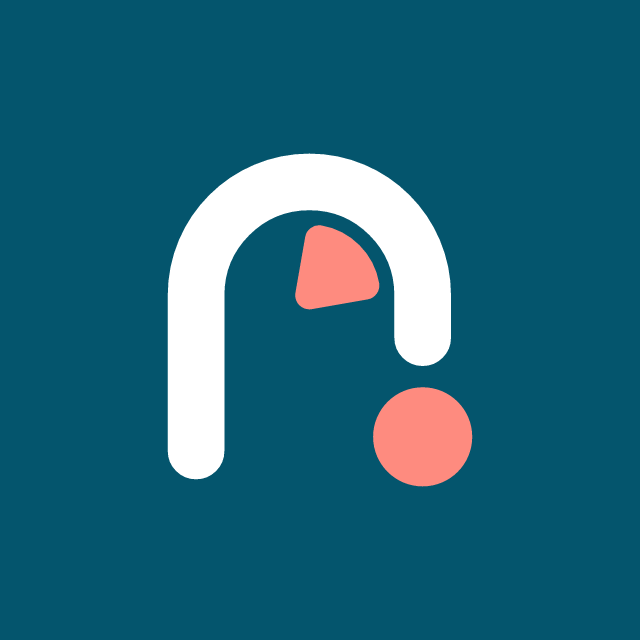
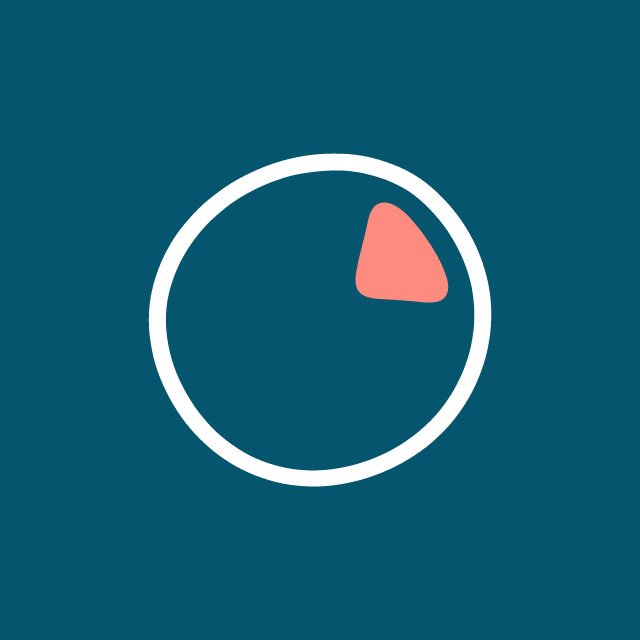
Piece: use the approved ring-and-slice mark
Replace the slice-in-the-arch cue with the drawing the owner approved: a
hand-drawn ring with one slice in the upper right, traced from the source
image. Piece is the one product mark that replaces the arch instead of
adding to it; the ring takes the route color, the slice the accent, so all
theme variants still come from tokens.

Claude-Session: https://claude.ai/code/session_017D9u9tzuCGMyrrq3fSv3S7

Changed region(s): [[0.2188, 0.2188, 0.7812, 0.7812]]

diff --git a/scripts/lib/products.ts b/scripts/lib/products.ts
@@ -27,23 +27,17 @@ function ringing(c: MarkColors): string {
   );
 }
 
-/**
- * A pie slice inside the arch, apex on its centre, opening to the upper right: one piece of
- * the shared whole. Filled, with a round-joined outline so the corners match the strokes.
- */
-function slice(c: MarkColors): string {
-  const r = 4;
-  const [x1, y1] = arcPoint(r, 80);
-  const [x2, y2] = arcPoint(r, 10);
-  return (
-    markShapes(c) +
-    `<path d="M${ARCH.cx} ${ARCH.cy}L${x1} ${y1}A${r} ${r} 0 0 1 ${x2} ${y2}Z" fill="${c.dot}" stroke="${c.dot}" stroke-width="2" stroke-linejoin="round"/>`
-  );
+// Piece: hand-drawn ring with one slice, traced from the approved drawing. The only product mark
+// that replaces the arch instead of adding to it; ring in the route color, slice in the accent.
+const PIECE_RING = "M29.51 16.0C29.5 16.39 29.47 16.78 29.42 17.17C29.37 17.56 29.3 17.95 29.22 18.33C29.14 18.71 29.04 19.09 28.92 19.46C28.8 19.83 28.67 20.2 28.52 20.56C28.37 20.92 28.22 21.27 28.04 21.61C27.86 21.95 27.67 22.29 27.46 22.62C27.25 22.95 27.03 23.26 26.8 23.57C26.57 23.88 26.33 24.17 26.07 24.45C25.81 24.73 25.54 25.0 25.26 25.26C24.98 25.52 24.7 25.78 24.4 26.01C24.1 26.24 23.79 26.46 23.47 26.67C23.15 26.88 22.83 27.08 22.5 27.26C22.17 27.44 21.83 27.61 21.49 27.77C21.15 27.93 20.79 28.07 20.44 28.2C20.09 28.33 19.73 28.46 19.37 28.56C19.01 28.66 18.63 28.75 18.26 28.83C17.89 28.91 17.52 28.97 17.14 29.02C16.76 29.07 16.38 29.1 16.0 29.11C15.62 29.12 15.23 29.12 14.85 29.1C14.47 29.08 14.09 29.04 13.71 28.99C13.33 28.94 12.95 28.86 12.58 28.77C12.21 28.68 11.83 28.56 11.47 28.44C11.11 28.32 10.75 28.18 10.4 28.02C10.05 27.86 9.7 27.69 9.36 27.5C9.02 27.31 8.7 27.1 8.38 26.88C8.06 26.66 7.76 26.43 7.46 26.18C7.16 25.93 6.88 25.67 6.6 25.4C6.32 25.13 6.06 24.84 5.81 24.55C5.56 24.26 5.32 23.94 5.1 23.63C4.88 23.32 4.67 22.99 4.47 22.66C4.27 22.33 4.09 21.99 3.92 21.64C3.75 21.29 3.58 20.93 3.44 20.57C3.3 20.21 3.17 19.84 3.06 19.47C2.95 19.1 2.86 18.71 2.79 18.33C2.72 17.95 2.65 17.56 2.61 17.17C2.57 16.78 2.55 16.39 2.55 16.0C2.55 15.61 2.57 15.22 2.61 14.83C2.65 14.44 2.72 14.05 2.8 13.67C2.88 13.29 2.99 12.92 3.11 12.55C3.23 12.18 3.37 11.82 3.52 11.46C3.67 11.1 3.85 10.76 4.03 10.42C4.21 10.08 4.41 9.75 4.62 9.43C4.83 9.11 5.07 8.8 5.31 8.51C5.55 8.22 5.8 7.94 6.06 7.66C6.32 7.38 6.58 7.11 6.86 6.86C7.14 6.61 7.43 6.38 7.73 6.15C8.03 5.92 8.33 5.7 8.64 5.49C8.95 5.28 9.26 5.09 9.59 4.91C9.91 4.73 10.25 4.56 10.59 4.4C10.93 4.24 11.27 4.09 11.62 3.95C11.97 3.81 12.31 3.69 12.67 3.58C13.03 3.47 13.39 3.36 13.76 3.28C14.13 3.2 14.5 3.13 14.87 3.07C15.24 3.01 15.62 2.97 16.0 2.94C16.38 2.91 16.77 2.9 17.15 2.9C17.53 2.9 17.92 2.91 18.3 2.94C18.69 2.97 19.08 3.02 19.46 3.09C19.84 3.16 20.22 3.25 20.6 3.36C20.98 3.47 21.35 3.6 21.72 3.74C22.09 3.88 22.46 4.03 22.81 4.21C23.16 4.39 23.5 4.59 23.83 4.81C24.16 5.03 24.48 5.27 24.78 5.53C25.08 5.79 25.37 6.07 25.65 6.35C25.93 6.63 26.2 6.93 26.45 7.23C26.7 7.54 26.94 7.85 27.17 8.18C27.4 8.51 27.6 8.84 27.8 9.19C28.0 9.54 28.18 9.89 28.34 10.25C28.5 10.61 28.65 10.98 28.78 11.35C28.91 11.72 29.03 12.1 29.13 12.48C29.23 12.86 29.31 13.25 29.37 13.64C29.43 14.03 29.48 14.43 29.5 14.82C29.52 15.21 29.52 15.61 29.51 16.0ZM28.17 14.94C28.15 14.58 28.1 14.22 28.05 13.87C28.0 13.52 27.93 13.17 27.84 12.83C27.75 12.49 27.64 12.14 27.52 11.81C27.4 11.48 27.26 11.14 27.11 10.82C26.96 10.5 26.8 10.18 26.62 9.87C26.44 9.56 26.26 9.26 26.06 8.96C25.86 8.67 25.64 8.38 25.41 8.1C25.18 7.82 24.95 7.56 24.7 7.3C24.45 7.04 24.19 6.79 23.92 6.56C23.65 6.33 23.37 6.1 23.07 5.9C22.77 5.7 22.46 5.53 22.14 5.37C21.82 5.21 21.49 5.07 21.16 4.94C20.83 4.82 20.48 4.71 20.14 4.62C19.8 4.53 19.45 4.44 19.11 4.38C18.76 4.32 18.42 4.28 18.07 4.25C17.72 4.22 17.38 4.22 17.03 4.23C16.69 4.24 16.34 4.26 16.0 4.29C15.66 4.32 15.32 4.36 14.99 4.41C14.66 4.46 14.32 4.51 13.99 4.59C13.66 4.66 13.34 4.76 13.02 4.86C12.7 4.96 12.38 5.08 12.07 5.2C11.76 5.32 11.45 5.46 11.15 5.6C10.85 5.74 10.55 5.9 10.26 6.06C9.97 6.22 9.68 6.4 9.4 6.58C9.12 6.76 8.85 6.96 8.59 7.17C8.33 7.38 8.07 7.6 7.82 7.82C7.57 8.04 7.32 8.28 7.09 8.52C6.86 8.76 6.63 9.02 6.42 9.29C6.21 9.56 6.0 9.83 5.81 10.12C5.62 10.4 5.44 10.7 5.27 11.0C5.1 11.3 4.94 11.61 4.8 11.93C4.66 12.25 4.53 12.57 4.42 12.9C4.31 13.23 4.21 13.57 4.13 13.91C4.05 14.25 3.99 14.6 3.95 14.95C3.91 15.3 3.89 15.65 3.89 16.0C3.89 16.35 3.91 16.7 3.95 17.05C3.99 17.4 4.04 17.76 4.11 18.1C4.18 18.44 4.26 18.78 4.36 19.12C4.46 19.46 4.57 19.78 4.7 20.11C4.83 20.43 4.97 20.76 5.13 21.07C5.28 21.38 5.45 21.69 5.63 21.99C5.81 22.29 5.99 22.58 6.19 22.87C6.39 23.16 6.61 23.43 6.83 23.7C7.05 23.97 7.28 24.23 7.52 24.48C7.76 24.73 8.02 24.97 8.29 25.19C8.56 25.42 8.83 25.63 9.12 25.83C9.4 26.03 9.7 26.22 10.0 26.4C10.3 26.58 10.61 26.74 10.93 26.88C11.25 27.02 11.57 27.15 11.9 27.26C12.23 27.37 12.56 27.47 12.9 27.55C13.24 27.63 13.59 27.7 13.93 27.75C14.27 27.8 14.62 27.82 14.96 27.84C15.31 27.86 15.66 27.86 16.0 27.84C16.34 27.82 16.69 27.8 17.03 27.75C17.37 27.7 17.71 27.64 18.04 27.57C18.37 27.5 18.7 27.42 19.03 27.32C19.36 27.22 19.68 27.12 20.0 27.0C20.32 26.88 20.63 26.74 20.94 26.6C21.25 26.46 21.55 26.31 21.85 26.14C22.15 25.97 22.44 25.79 22.72 25.6C23.0 25.41 23.28 25.21 23.55 25.0C23.82 24.79 24.08 24.56 24.33 24.33C24.58 24.1 24.83 23.86 25.06 23.6C25.29 23.35 25.51 23.08 25.72 22.8C25.93 22.52 26.13 22.24 26.31 21.95C26.49 21.66 26.66 21.36 26.82 21.05C26.98 20.74 27.14 20.42 27.27 20.1C27.4 19.78 27.52 19.45 27.63 19.12C27.74 18.79 27.83 18.44 27.91 18.1C27.99 17.76 28.04 17.41 28.09 17.06C28.14 16.71 28.17 16.35 28.18 16.0C28.19 15.65 28.19 15.3 28.17 14.94Z";
+const PIECE_SLICE = "M25.43 11.27C25.5 11.41 25.58 11.56 25.65 11.72C25.72 11.88 25.79 12.06 25.86 12.25C25.93 12.44 26.02 12.65 26.06 12.86C26.1 13.07 26.14 13.32 26.12 13.53C26.1 13.74 26.04 13.97 25.93 14.13C25.82 14.29 25.63 14.43 25.44 14.51C25.25 14.59 25.01 14.61 24.79 14.63C24.57 14.65 24.34 14.62 24.13 14.61C23.92 14.6 23.74 14.57 23.56 14.55C23.38 14.53 23.22 14.52 23.07 14.51C22.92 14.5 22.78 14.48 22.63 14.47C22.48 14.46 22.34 14.45 22.2 14.44C22.06 14.43 21.93 14.42 21.79 14.41C21.65 14.4 21.52 14.4 21.37 14.39C21.22 14.38 21.08 14.37 20.92 14.36C20.76 14.35 20.61 14.35 20.44 14.33C20.27 14.31 20.09 14.29 19.92 14.24C19.75 14.19 19.57 14.14 19.42 14.05C19.27 13.96 19.13 13.84 19.04 13.7C18.94 13.56 18.89 13.37 18.85 13.2C18.82 13.03 18.82 12.84 18.83 12.66C18.84 12.48 18.87 12.31 18.9 12.15C18.93 11.99 18.96 11.84 18.99 11.69C19.02 11.54 19.04 11.41 19.07 11.27C19.1 11.13 19.14 11.0 19.17 10.87C19.2 10.74 19.24 10.61 19.27 10.48C19.3 10.35 19.33 10.22 19.36 10.09C19.39 9.96 19.43 9.83 19.47 9.69C19.5 9.55 19.53 9.41 19.57 9.25C19.61 9.09 19.65 8.93 19.69 8.75C19.73 8.57 19.76 8.36 19.82 8.15C19.88 7.94 19.93 7.7 20.03 7.5C20.13 7.3 20.26 7.1 20.42 6.97C20.58 6.84 20.79 6.77 20.99 6.75C21.19 6.73 21.42 6.78 21.62 6.85C21.82 6.92 22.02 7.04 22.2 7.15C22.38 7.26 22.55 7.41 22.7 7.54C22.85 7.67 22.98 7.81 23.1 7.94C23.22 8.07 23.33 8.2 23.43 8.32C23.53 8.44 23.62 8.55 23.71 8.66C23.8 8.77 23.88 8.87 23.96 8.97C24.04 9.07 24.12 9.18 24.19 9.28C24.26 9.38 24.33 9.48 24.4 9.58C24.47 9.68 24.54 9.78 24.61 9.88C24.68 9.98 24.74 10.08 24.81 10.19C24.88 10.3 24.94 10.41 25.01 10.52C25.08 10.63 25.15 10.74 25.22 10.87C25.29 11.0 25.36 11.13 25.43 11.27Z";
+
+function piece(c: MarkColors): string {
+  return `<path d="${PIECE_RING}" fill="${c.route}" fill-rule="evenodd"/><path d="${PIECE_SLICE}" fill="${c.dot}"/>`;
 }
 
 export const GLYPHS: Record<string, Glyph> = {
   // Left arc starts at 150° (x 4.42) and the right one ends at 30° (x 26.08); both peak at y 2.92.
   ringing: { shapes: ringing, bounds: { x0: 2.92, y0: 1.42, x1: 27.58, y1: 27.75 } },
-  // Outer edge sits at r 5 (4 + half the outline), 1 unit clear of the arch's inner edge (r 6).
-  slice: { shapes: slice, bounds: { x0: 5.25, y0: 4.25, x1: 26.75, y1: 27.75 } },
+  piece: { shapes: piece, bounds: { x0: 2.55, y0: 2.9, x1: 29.51, y1: 29.11 } },
 };

diff --git a/guidelines/logo.md b/guidelines/logo.md
@@ -27,7 +27,7 @@ product does, drawn in the accent with the same rounded strokes. The product nam
 | Product | Cue | Files (`assets/products/<id>/`) |
 |---|---|---|
 | Reminder | two ringing arcs above the arch | `mark*.svg`, `app-icon.svg`, `favicon.svg`, `icon-192/512.png`, `apple-touch-icon.png`, `avatar-telegram.png` |
-| Piece | a pie slice inside the arch, upper right | same set |
+| Piece | own mark: hand-drawn ring with one slice in the accent (approved exception, replaces the arch) | same set |
 
 - Use the product icon wherever the product appears on its own: bot avatar, Mini App favicon, app icon, store listing.
   Use the master mark for Nomadigit itself and in personal documents.

diff --git a/AGENTS.md b/AGENTS.md
@@ -37,7 +37,7 @@ guides are in [`guidelines/`](guidelines/) and the values are in [`tokens/brand.
   accent. Product icons are listed in `tokens/brand.json` → `products`, drawn in `scripts/lib/products.ts` and generated
   into `assets/products/<id>/`. Never draw one by hand in a product repo. To add a product, add a glyph there and an entry
   in `products`, then rebuild. Current products: **Reminder** (`assets/products/reminder/`, ringing arcs), **Piece**
-  (`assets/products/piece/`, a pie slice inside the arch).
+  (`assets/products/piece/`, an approved exception: its own ring-and-slice mark instead of the arch).
 
 ## What to read for the task at hand
 
